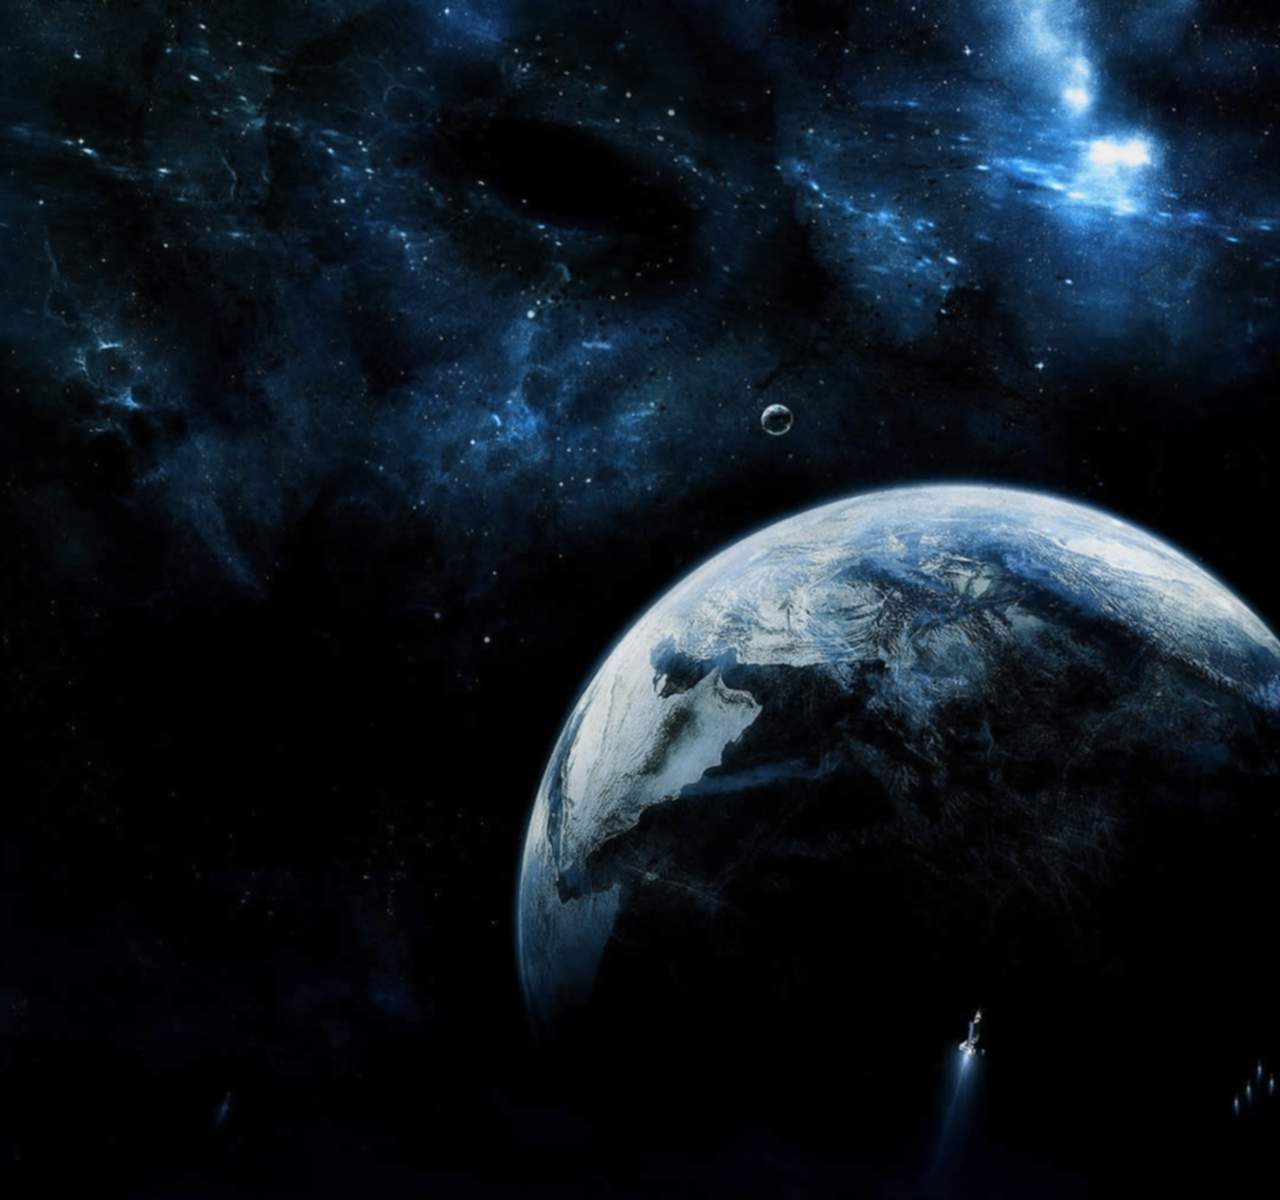
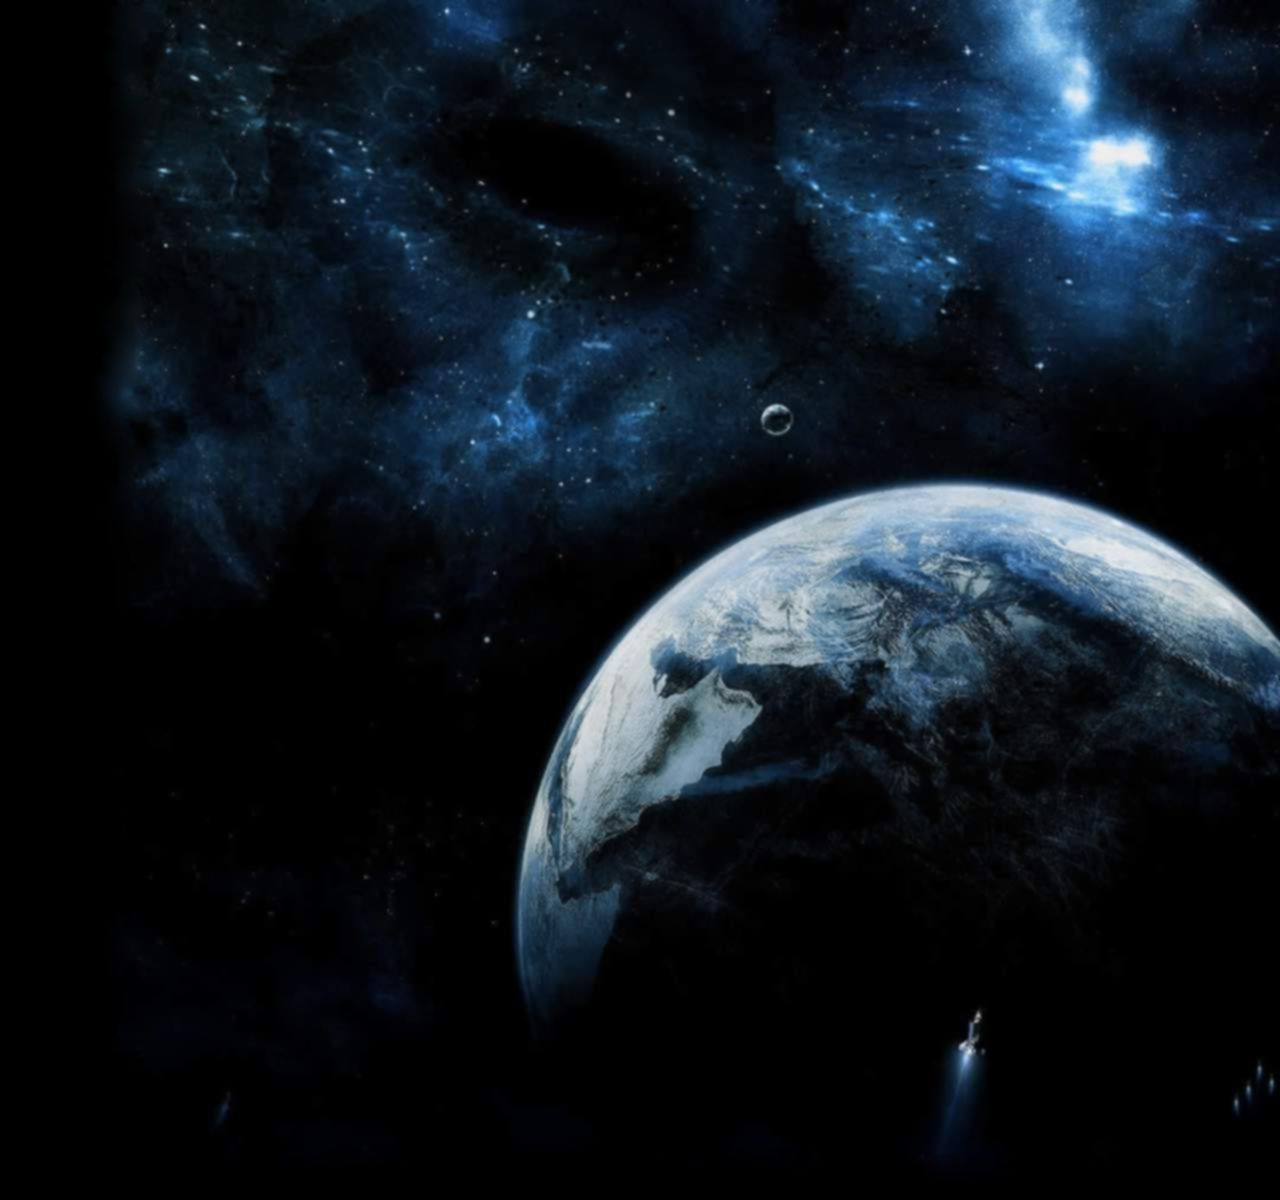
Better background

Changed region(s): [[0.0, 0.0, 0.125, 0.37]]

diff --git a/styles/skins/xgproject/formate.css b/styles/skins/xgproject/formate.css
@@ -37,7 +37,7 @@ body
   color                : #E6EBFB;
   margin-top           : 1px;
   margin-left          : 1px;
-  background-color     : #040e1e;
+  background-color     : #000000;
   background-image     : url(img/background.jpg);
   background-attachment: fixed;
   background-repeat    : no-repeat;
